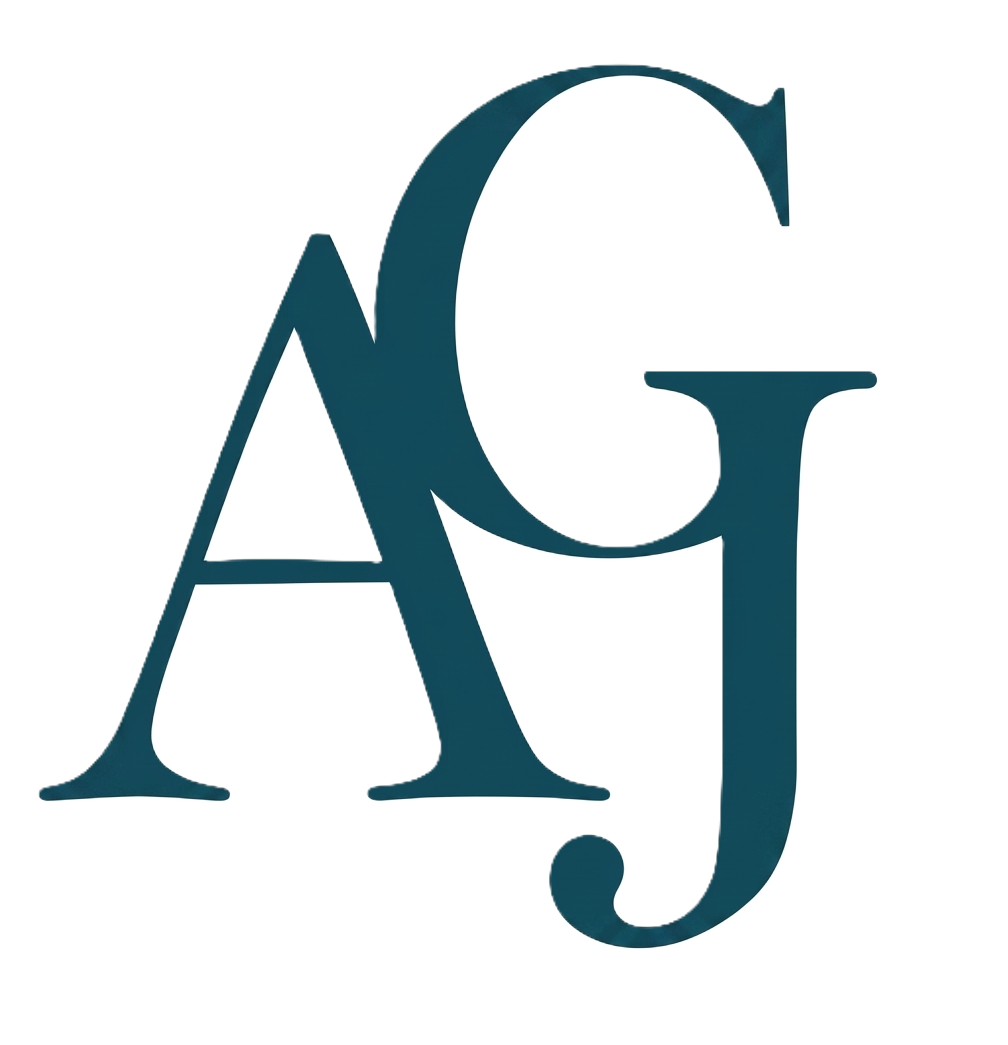
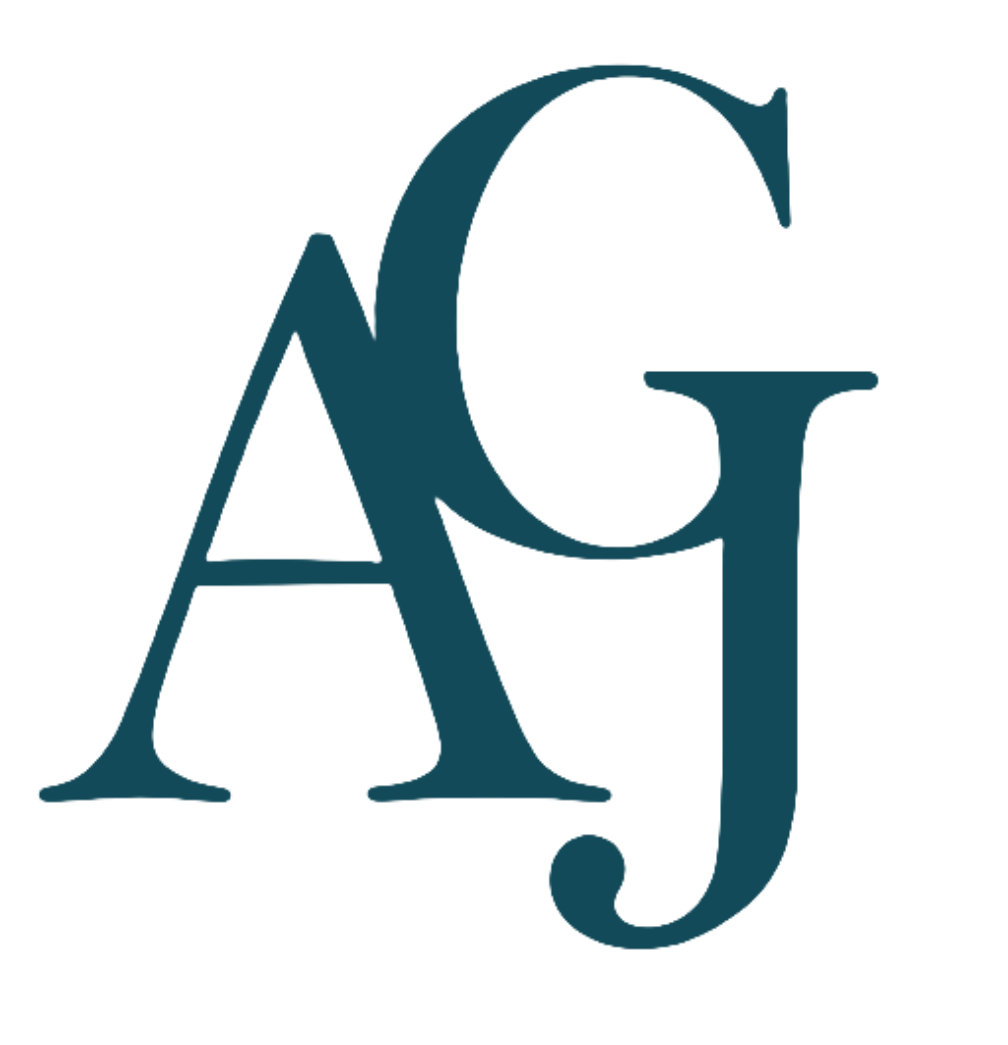
modifiche

diff --git a/src/routes/servizi.tsx b/src/routes/servizi.tsx
@@ -12,14 +12,15 @@ import {
   Leaf,
   FlaskConical,
   ShieldCheck,
+  ArrowRight,
 } from "lucide-react";
 import { PageShell } from "@/components/PageShell";
 import { GlassCard } from "@/components/GlassCard";
 import { FanCardStack } from "@/components/FanCardStack";
 import { OminiScrollLayer } from "@/components/OminiScrollLayer";
 import { ServiceCardStackSection } from "@/components/ServiceCardStackSection";
-import { ServiceZoomParallax } from "@/components/ServiceZoomParallax";
-import { ServiceMascotFinanziamenti } from "@/components/ServiceMascotFinanziamenti";
+import { ServiceIllustration } from "@/components/illustrations";
+import { TextEffect } from "@/components/ui/text-effect";
 
 export const Route = createFileRoute("/servizi")({
   head: () => ({
@@ -107,11 +108,108 @@ function Servizi() {
     <PageShell>
       <OminiScrollLayer variant="servizi" />
 
-      {/* Intro "immersiva": la mascotte indica il titolo, poi cammina via a sinistra */}
-      <ServiceZoomParallax subtitle="Agjconfin supporta aziende e centri di ricerca nell'accesso ai finanziamenti pubblici e nell'Innovation Management con una gamma integrata di servizi." />
+      {/* HERO — titolo grande al centro; illustrazioni ai lati per riempire lo spazio */}
+      <section className="relative overflow-hidden px-4 pb-6 pt-8">
+        <div
+          aria-hidden
+          className="pointer-events-none absolute left-1/2 top-1/2 h-[70vmin] w-[70vmin] -translate-x-1/2 -translate-y-1/2 rounded-full bg-[radial-gradient(ellipse_at_center,rgba(29,112,136,0.10),transparent_65%)] blur-2xl"
+        />
+        <div className="container relative mx-auto">
+          <motion.div
+            initial={{ opacity: 0, y: 24 }}
+            animate={{ opacity: 1, y: 0 }}
+            transition={{ duration: 0.7, ease: "easeOut" }}
+            className="mx-auto max-w-4xl text-center"
+          >
+            <span className="text-xs font-semibold uppercase tracking-[0.3em] text-petrol">
+              I nostri servizi
+            </span>
+            {/* stesso effetto del titolo di "Chi siamo" (blur, parola per parola) */}
+            <TextEffect
+              as="h1"
+              per="word"
+              preset="blur"
+              delay={0.1}
+              className="mx-auto mt-5 text-5xl font-bold leading-[1.05] text-gradient sm:text-6xl md:text-7xl"
+            >
+              Una gamma completa per crescere, innovare, competere.
+            </TextEffect>
+            <p className="mx-auto mt-6 max-w-2xl text-lg text-muted-foreground">
+              Agjconfin supporta aziende e centri di ricerca nell'accesso ai finanziamenti pubblici
+              e nell'Innovation Management con una gamma integrata di servizi.
+            </p>
+          </motion.div>
 
-      {/* La mascotte rientra da sinistra e indica i finanziamenti agevolati */}
-      <ServiceMascotFinanziamenti />
+          {/* illustrazioni: trasferimento tecnologico a sinistra, innovation management in basso a destra */}
+          <div className="mt-2 grid items-end gap-6 md:mt-[-3rem] md:grid-cols-2">
+            <motion.div
+              initial={{ opacity: 0, x: -24 }}
+              animate={{ opacity: 1, x: 0 }}
+              transition={{ duration: 0.8, delay: 0.25 }}
+              className="order-2 md:order-1"
+            >
+              <div className="w-full max-w-md md:ml-[2%] lg:max-w-lg">
+                <ServiceIllustration kind="trasferimento-tecnologico" />
+              </div>
+            </motion.div>
+
+            <motion.div
+              initial={{ opacity: 0, y: 30 }}
+              animate={{ opacity: 1, y: 0 }}
+              transition={{ duration: 0.8, delay: 0.35 }}
+              className="order-1 flex justify-center md:order-2 md:mt-16 md:justify-end"
+            >
+              <div className="w-full max-w-md md:mr-[2%] lg:max-w-lg">
+                <ServiceIllustration kind="innovation-management" />
+              </div>
+            </motion.div>
+          </div>
+        </div>
+      </section>
+
+      {/* FINANZIAMENTI AGEVOLATI — titolo grande al centro, omino grande a sinistra */}
+      <section className="relative overflow-hidden px-4 py-12">
+        <div className="container mx-auto grid items-center gap-8 md:grid-cols-[1.05fr_1fr]">
+          {/* illustrazione Finanza Agevolata — grande, a sinistra */}
+          <motion.div
+            initial={{ opacity: 0, x: -30 }}
+            whileInView={{ opacity: 1, x: 0 }}
+            viewport={{ once: true, amount: 0.3 }}
+            transition={{ duration: 0.7 }}
+            className="order-2 md:order-1"
+          >
+            <div className="mx-auto w-full max-w-xl lg:max-w-2xl">
+              <ServiceIllustration kind="finanza-agevolata" />
+            </div>
+          </motion.div>
+
+          <motion.div
+            initial={{ opacity: 0, y: 24 }}
+            whileInView={{ opacity: 1, y: 0 }}
+            viewport={{ once: true, amount: 0.3 }}
+            transition={{ duration: 0.7, delay: 0.1 }}
+            className="order-1 text-center md:order-2"
+          >
+            <span className="text-xs font-semibold uppercase tracking-[0.3em] text-petrol">
+              Il nostro core
+            </span>
+            <h2 className="mt-4 text-4xl font-bold leading-[1.08] text-gradient md:text-6xl">
+              Finanziamenti agevolati
+            </h2>
+            <p className="mx-auto mt-6 max-w-md text-muted-foreground">
+              Individuiamo le opportunità di finanziamento più coerenti con il progetto e
+              accompagniamo l'azienda in ogni fase: dalla stesura della domanda alla gestione del
+              finanziamento, fino alla rendicontazione finale.
+            </p>
+            <Link
+              to="/contatti"
+              className="btn-shine glass-petrol mt-8 inline-flex items-center gap-2 rounded-xl px-8 py-4 font-semibold transition-transform duration-500 hover:scale-105"
+            >
+              Contattaci <ArrowRight size={18} />
+            </Link>
+          </motion.div>
+        </div>
+      </section>
 
       {/* Carosello servizi — stesso componente/contenuto della home, sempre allineati */}
       <ServiceCardStackSection showCta={false} className="pt-4 pb-24" />

diff --git a/src/components/AgjLogo.tsx b/src/components/AgjLogo.tsx
@@ -24,15 +24,35 @@ export function AgjLogo({
   if (variant === "mark") {
     return (
       <div
-        className={cn("inline-flex shrink-0 items-center justify-center", className)}
+        className={cn(
+          "inline-flex shrink-0 items-center justify-center text-petrol dark:text-teal-100",
+          className,
+        )}
         style={{ height, maxWidth: "100%" }}
         aria-label="AGJ"
+        role="img"
       >
-        <img
-          src={agjMark}
-          alt="AGJ"
-          draggable={false}
-          className="h-full w-auto max-w-full select-none object-contain"
+        {/*
+         * Il monogramma viene disegnato con una MASCHERA CSS e colorato con
+         * `currentColor`: solo il canale alpha del PNG viene usato, quindi il
+         * contorno resta pulito su qualunque sfondo (niente alone chiaro in
+         * dark mode) e il colore segue il tema.
+         */}
+        <span
+          aria-hidden
+          className="block h-full w-full"
+          style={{
+            backgroundColor: "currentColor",
+            WebkitMaskImage: `url(${agjMark})`,
+            maskImage: `url(${agjMark})`,
+            WebkitMaskSize: "contain",
+            maskSize: "contain",
+            WebkitMaskRepeat: "no-repeat",
+            maskRepeat: "no-repeat",
+            WebkitMaskPosition: "center",
+            maskPosition: "center",
+            aspectRatio: "1008 / 1045",
+          }}
         />
       </div>
     );
@@ -51,14 +71,22 @@ export function AgjLogo({
         className="relative inline-flex items-center justify-center rounded-full bg-petrol ring-1 ring-white/20"
         style={{ height: h, width: h }}
       >
-        {/* monogram recoloured to white so it reads on the petrol badge */}
-        <img
-          src={agjMark}
-          alt=""
-          draggable={false}
+        {/* monogramma in bianco tramite maschera: contorno pulito, niente filtri */}
+        <span
           aria-hidden
-          className="w-auto select-none object-contain"
-          style={{ height: h * 0.6, filter: "brightness(0) invert(1)" }}
+          className="block bg-white"
+          style={{
+            height: h * 0.6,
+            width: h * 0.6 * (1008 / 1045),
+            WebkitMaskImage: `url(${agjMark})`,
+            maskImage: `url(${agjMark})`,
+            WebkitMaskSize: "contain",
+            maskSize: "contain",
+            WebkitMaskRepeat: "no-repeat",
+            maskRepeat: "no-repeat",
+            WebkitMaskPosition: "center",
+            maskPosition: "center",
+          }}
         />
       </span>
       <span

diff --git a/src/routes/index.tsx b/src/routes/index.tsx
@@ -189,7 +189,7 @@ function Home() {
               initial={{ opacity: 0, scale: 0.6, rotate: -10 }}
               animate={{ opacity: 1, scale: 1, rotate: 0 }}
               transition={{ delay: 0.4, duration: 0.9, type: "spring", stiffness: 90 }}
-              className="flex justify-center lg:justify-end"
+              className="flex justify-center lg:justify-center"
             >
               <motion.div
                 animate={{ y: [0, -10, 0] }}
@@ -197,7 +197,7 @@ function Home() {
               >
                 <AgjLogo
                   variant="mark"
-                  height="clamp(180px, 42vw, 420px)"
+                  height="clamp(240px, 52vw, 560px)"
                   className="drop-shadow-2xl"
                 />
               </motion.div>

diff --git a/src/components/illustrations/TrasferimentoTecnologico.tsx b/src/components/illustrations/TrasferimentoTecnologico.tsx
@@ -26,7 +26,8 @@ export function TrasferimentoTecnologico({ title }: { title?: string }) {
           strokeWidth="2"
           strokeLinecap="round"
         />
-        <g className="il-sway" style={{ transformOrigin: "53px 91px" }}>
+        {/* bandierina: fissa (l'animazione ruotava attorno a un'origine errata) */}
+        <g>
           <path d="M53 90 L65 93 L53 97 Z" className="il-accent" />
         </g>
         {/* pediment */}

diff --git a/src/styles.css b/src/styles.css
@@ -502,7 +502,8 @@
 .il-sway {
   transform-box: fill-box;
   transform-origin: left center;
-  animation: il-sway 2.8s ease-in-out infinite;
+  /* bandierina ferma: l'oscillazione ruotava attorno a un'origine sbagliata */
+  animation: none;
 }
 .reduce-motion .il-rise,
 .reduce-motion .il-sway {